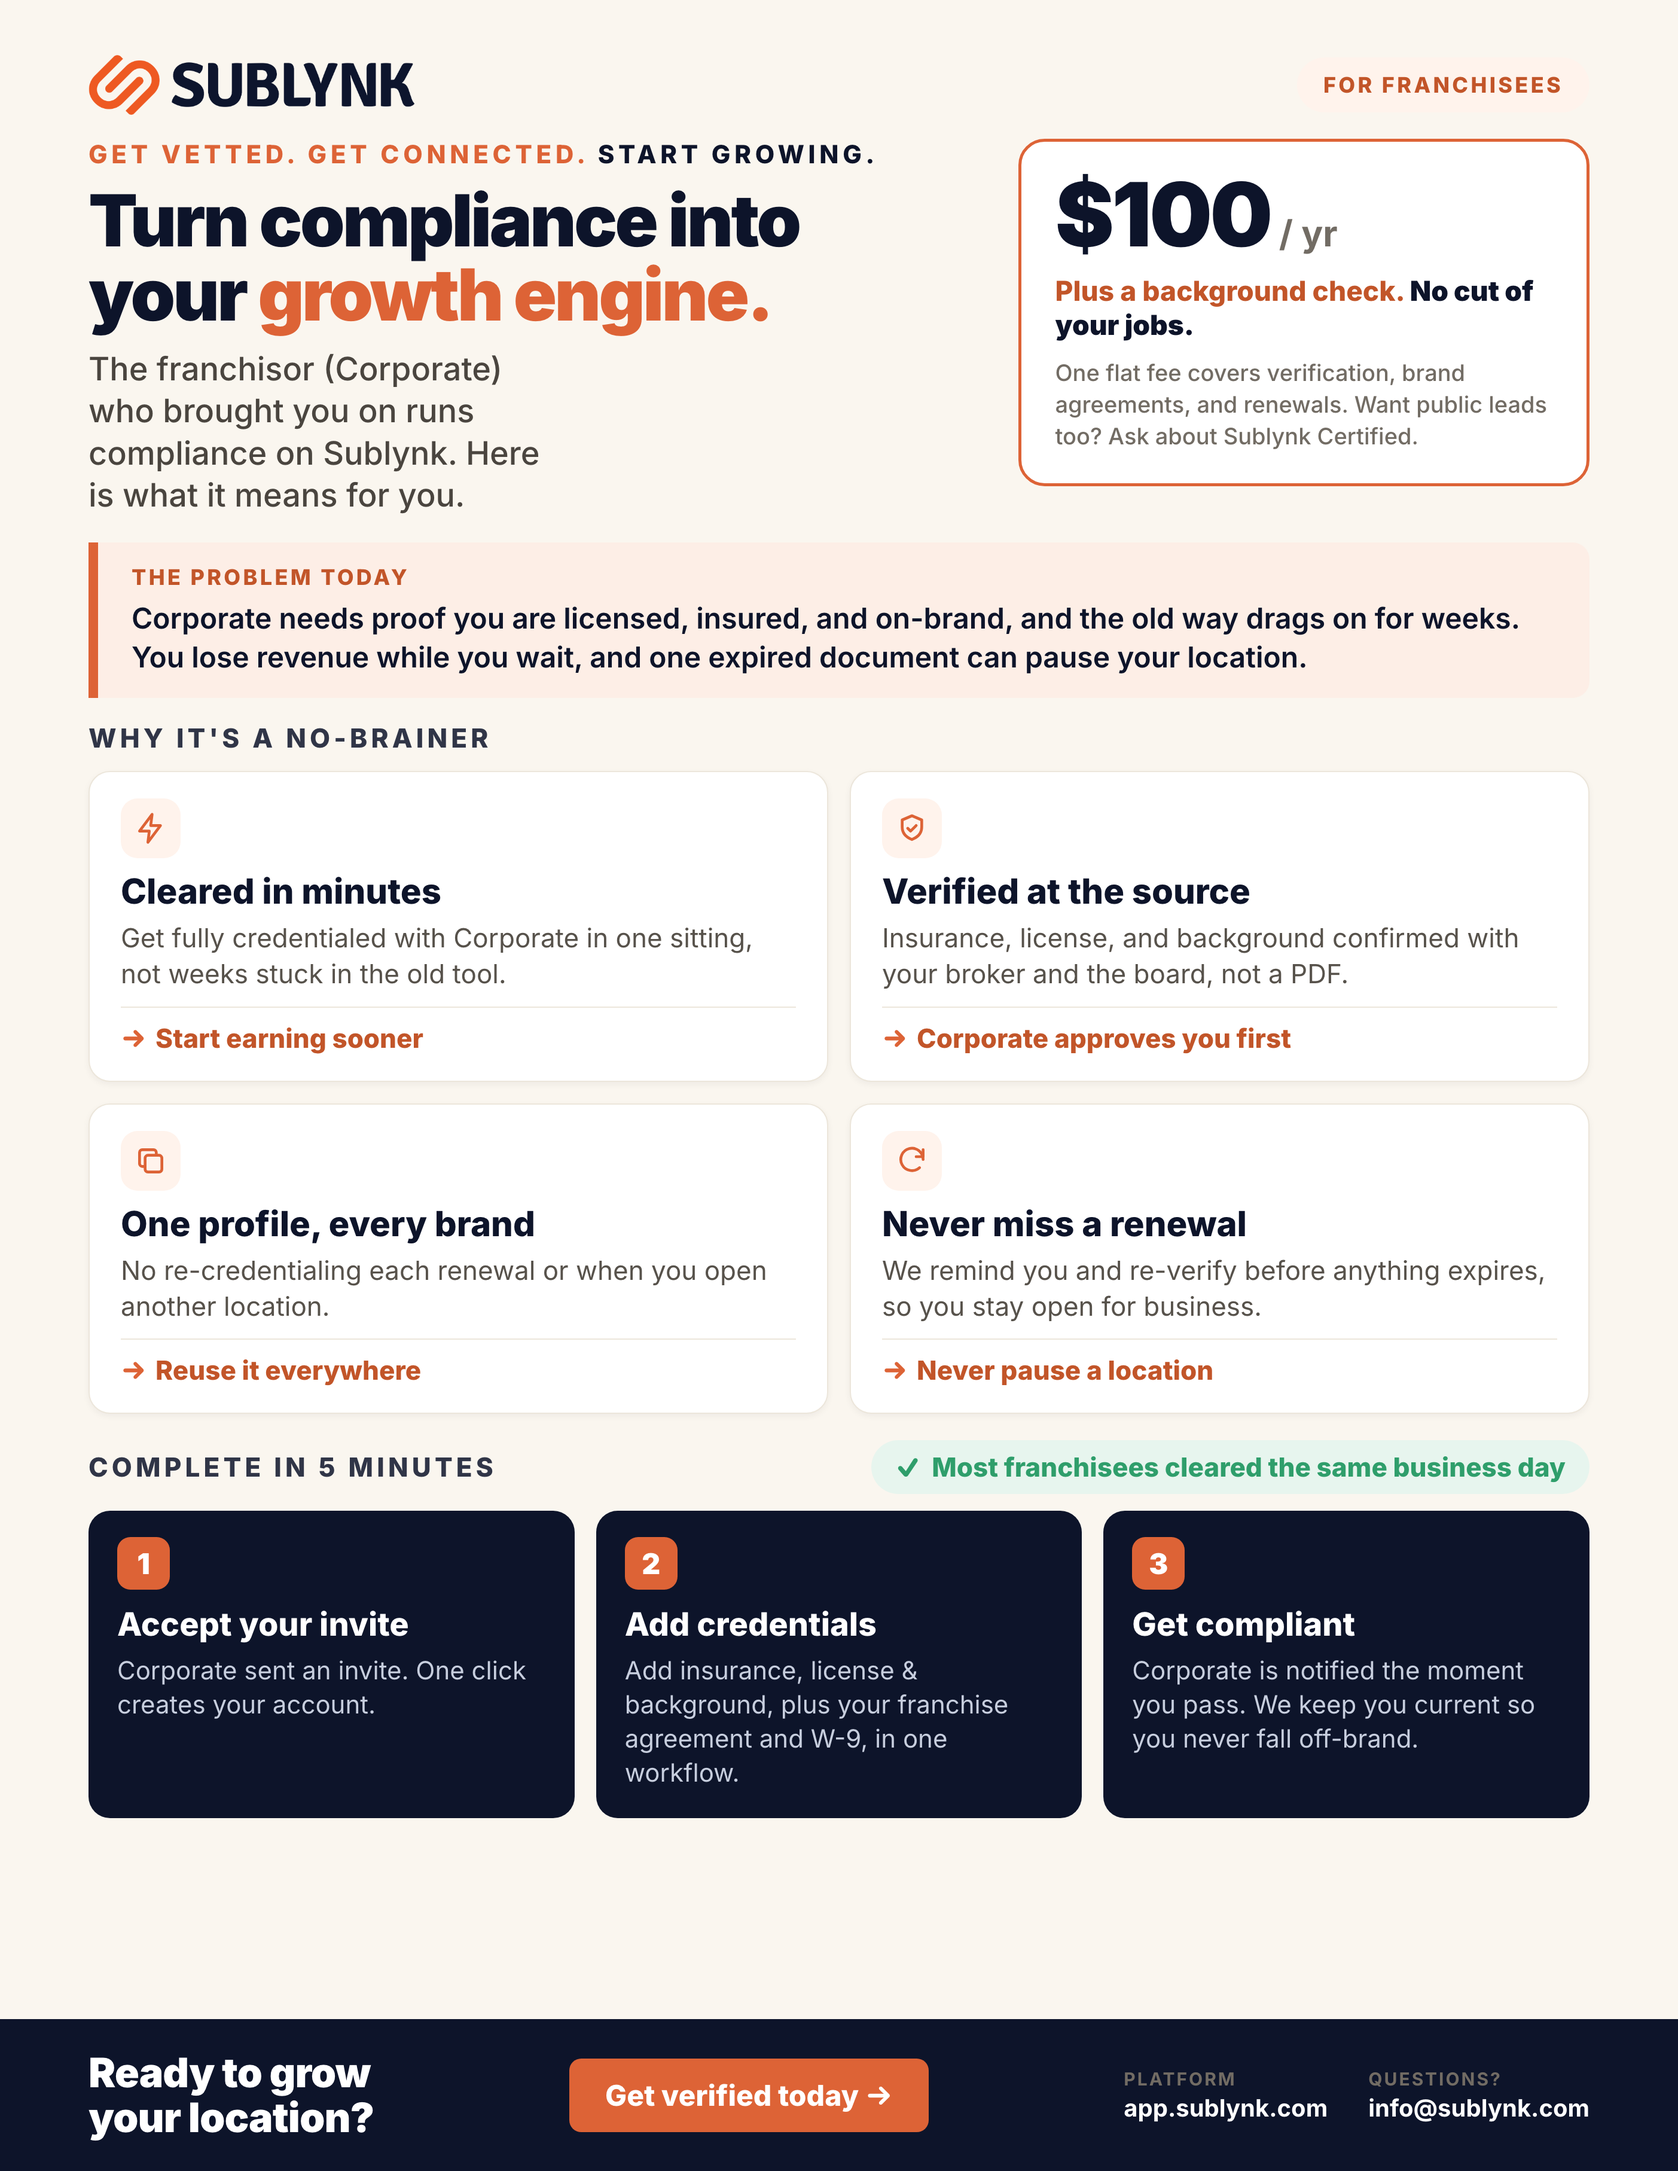
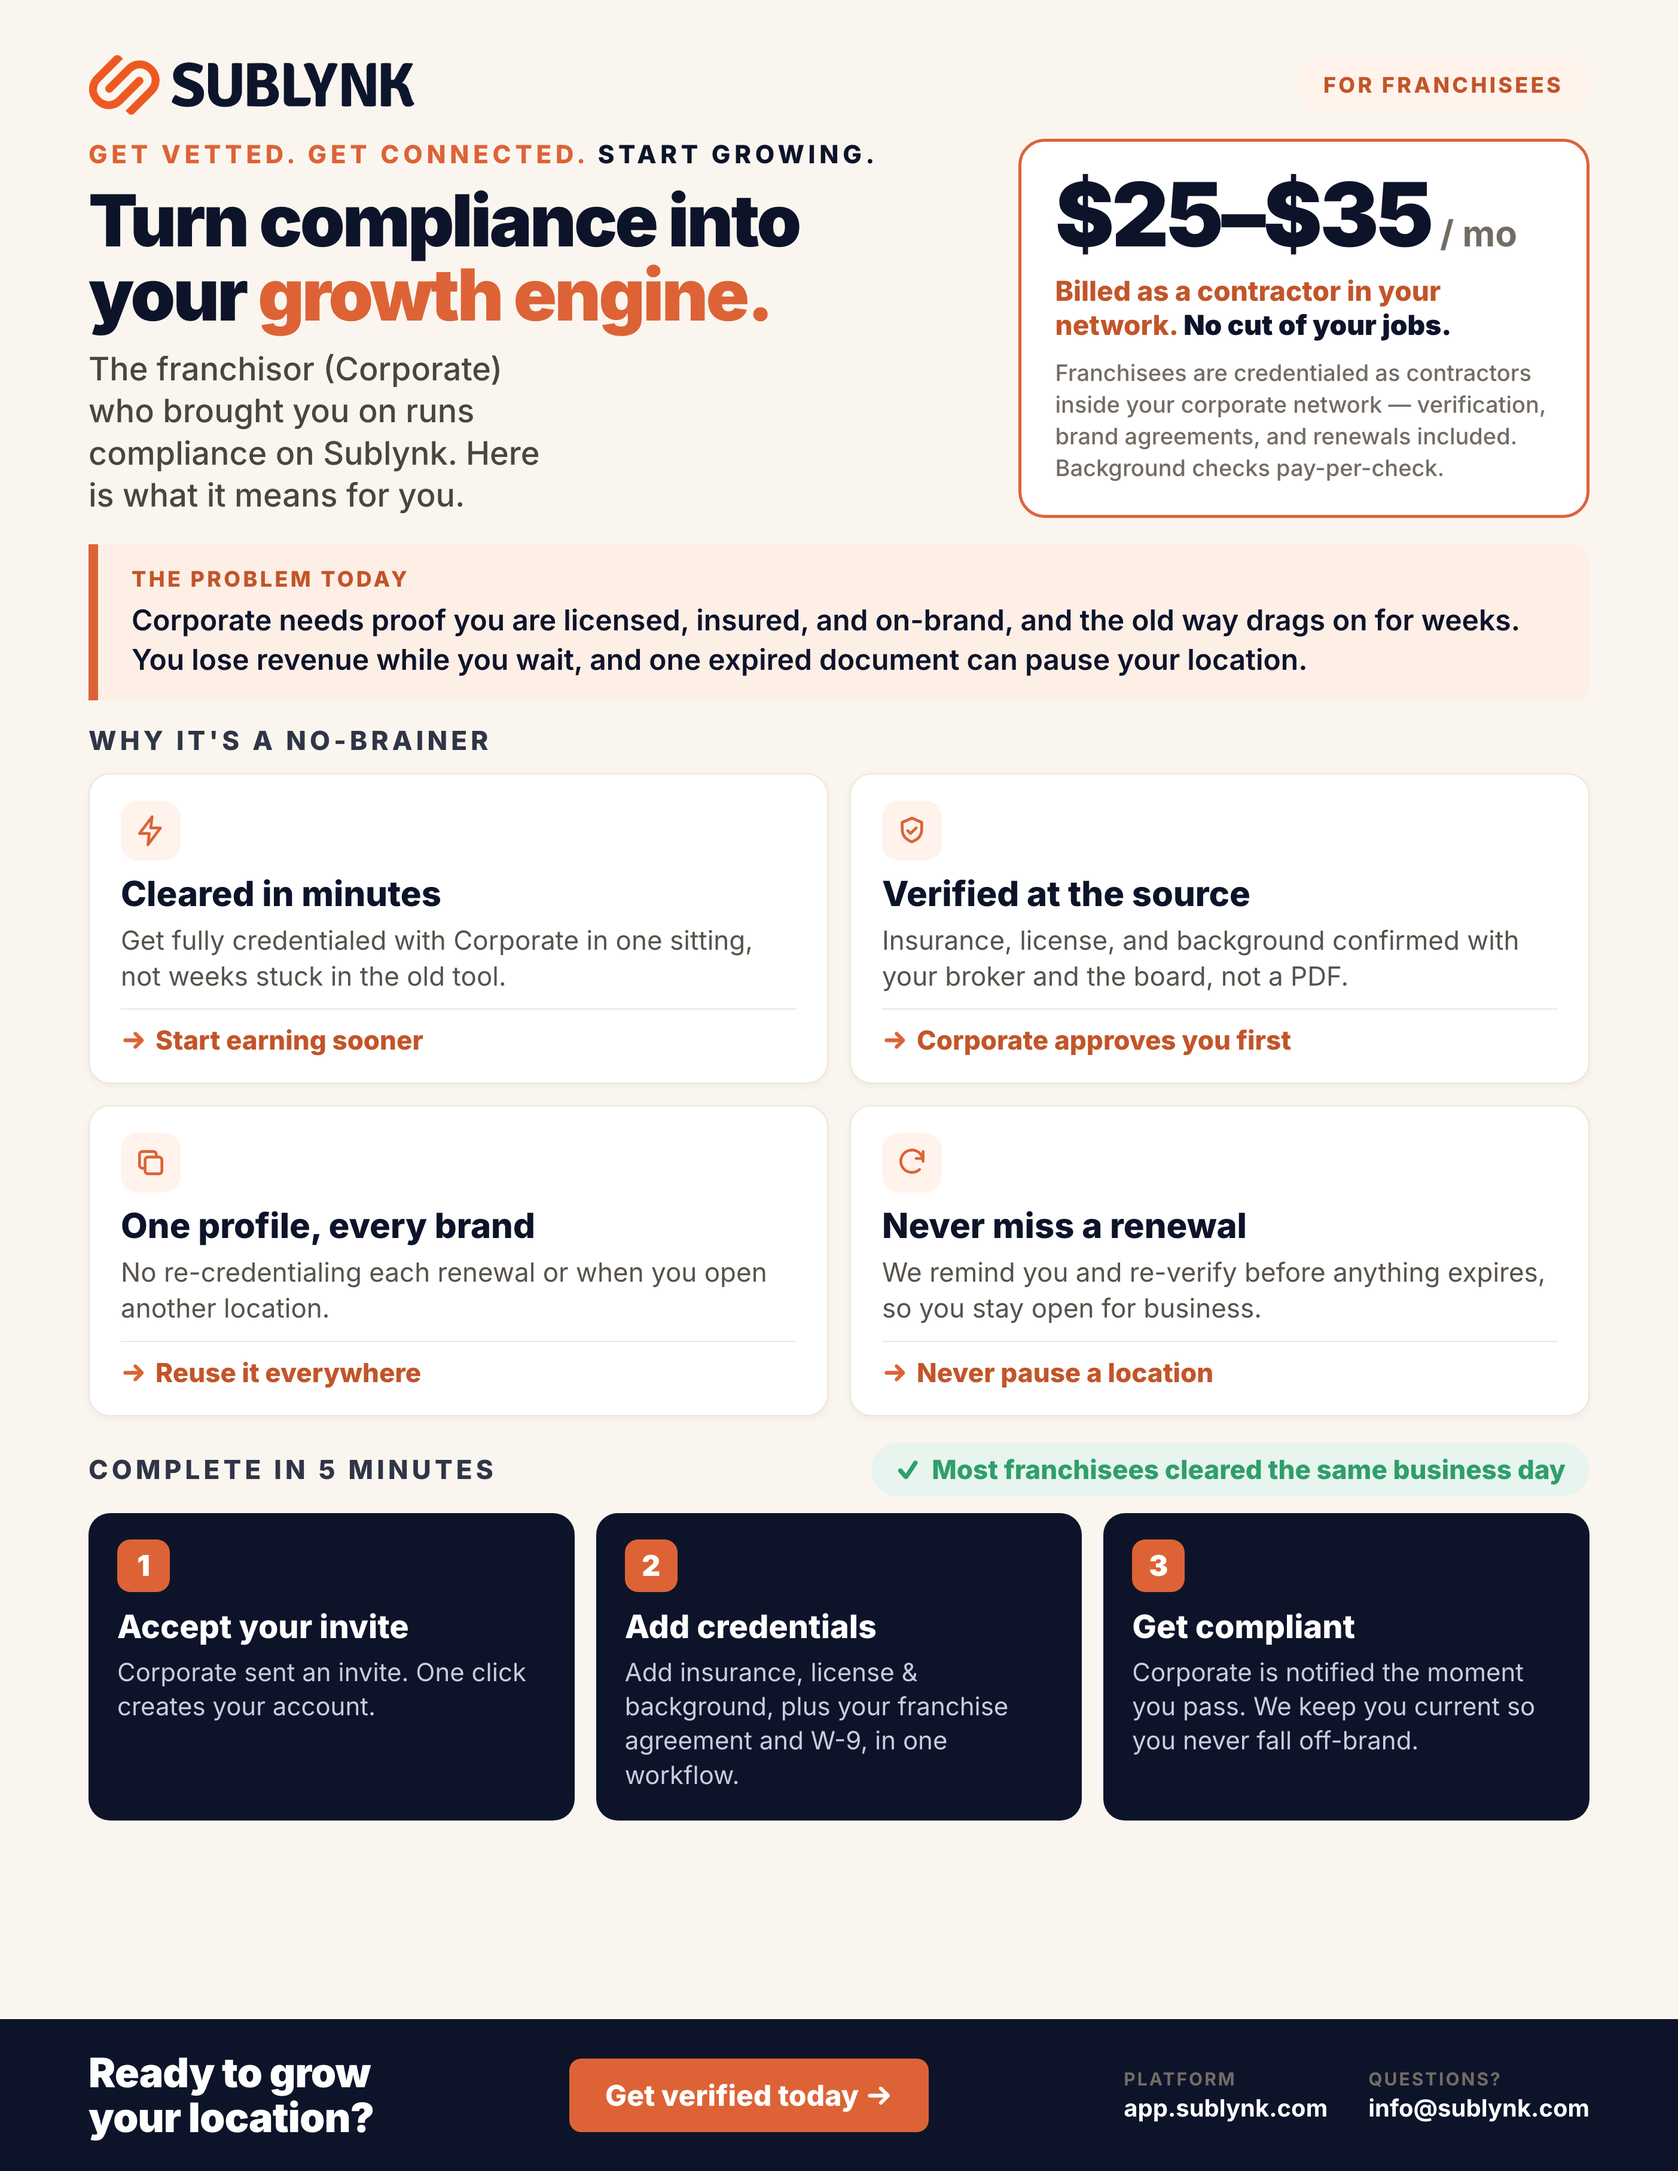
Franchise flipbook: correct Franchisee price to $25–$35/mo (contractor rate)
Franchisees are credentialed as contractors inside the corporate network,
so they're on the contractor subscription ($25–$35/mo), not the $100/yr
subcontractor rate. Updates the Franchisee page + regenerated PNG; the
self-contained artifact was rebuilt + republished separately.

diff --git a/grow-franchise/_src/02-franchisee.html b/grow-franchise/_src/02-franchisee.html
@@ -75,7 +75,7 @@ h1.hl span{color:var(--orange)}
         <h1 class="hl">Turn compliance into<br>your <span>growth engine.</span></h1>
         <p class="sub">The franchisor (Corporate) who brought you on runs compliance on Sublynk. Here is what it means for you.</p>
       </div>
-      <div class="hright"><div class="pbox"><div class="p">$100<span> / yr</span></div><div class="rr">Plus a background check. <b>No cut of your jobs.</b></div><div class="fine">One flat fee covers verification, brand agreements, and renewals. Want public leads too? Ask about Sublynk Certified.</div></div></div>
+      <div class="hright"><div class="pbox"><div class="p">$25–$35<span> / mo</span></div><div class="rr">Billed as a contractor in your network. <b>No cut of your jobs.</b></div><div class="fine">Franchisees are credentialed as contractors inside your corporate network — verification, brand agreements, and renewals included. Background checks pay-per-check.</div></div></div>
     </div>
   </div>
   <div class="pad"><div class="pain"><div class="lab">The Problem Today</div><div class="txt">Corporate needs proof you are licensed, insured, and on-brand, and the old way drags on for weeks. You lose revenue while you wait, and one expired document can pause your location.</div></div></div>

diff --git a/grow-franchise/_src/build_pages.py b/grow-franchise/_src/build_pages.py
@@ -167,8 +167,8 @@ p2 = dict(
  badge="For Franchisees",
  h1='Turn compliance into<br>your <span>growth engine.</span>',
  sub="The franchisor (Corporate) who brought you on runs compliance on Sublynk. Here is what it means for you.",
- price=dict(big="$100", unit="/ yr", rr="Plus a background check. <b>No cut of your jobs.</b>",
-            fine="One flat fee covers verification, brand agreements, and renewals. Want public leads too? Ask about Sublynk Certified."),
+ price=dict(big="$25–$35", unit="/ mo", rr="Billed as a contractor in your network. <b>No cut of your jobs.</b>",
+            fine="Franchisees are credentialed as contractors inside your corporate network — verification, brand agreements, and renewals included. Background checks pay-per-check."),
  pain="Corporate needs proof you are licensed, insured, and on-brand, and the old way drags on for weeks. You lose revenue while you wait, and one expired document can pause your location.",
  cards_eyebrow="Why it's a no-brainer",
  cards=[
